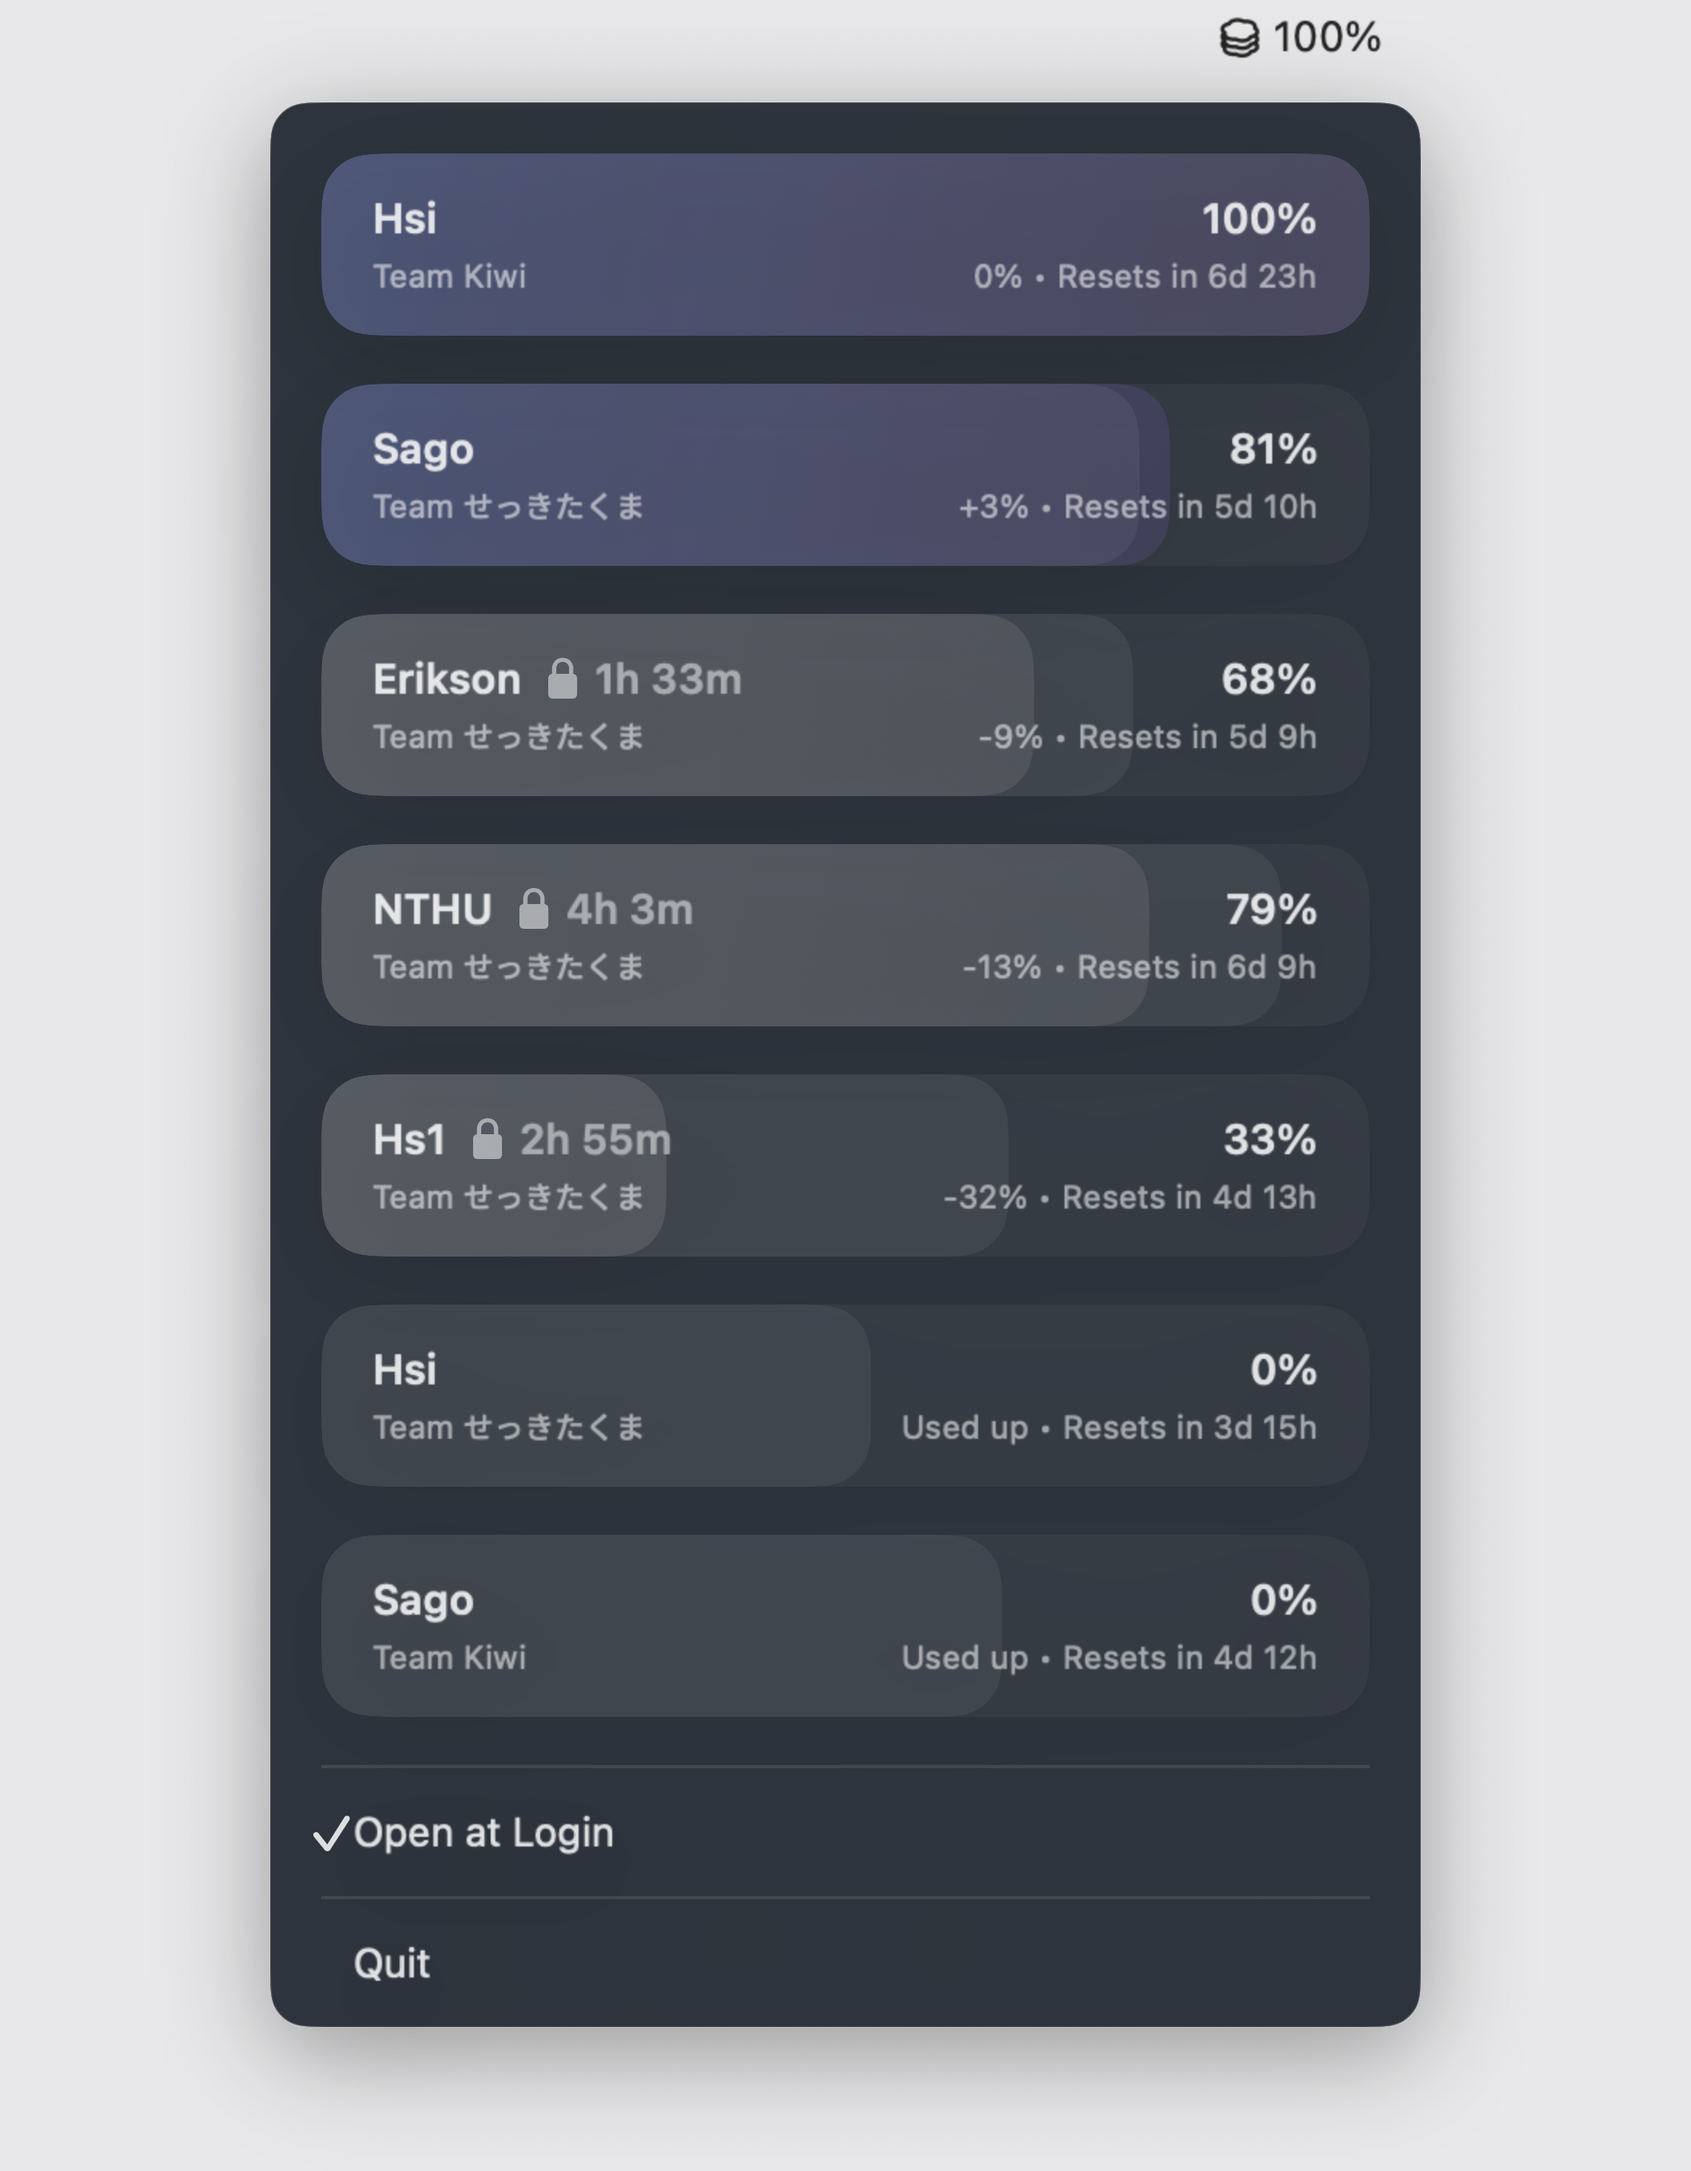
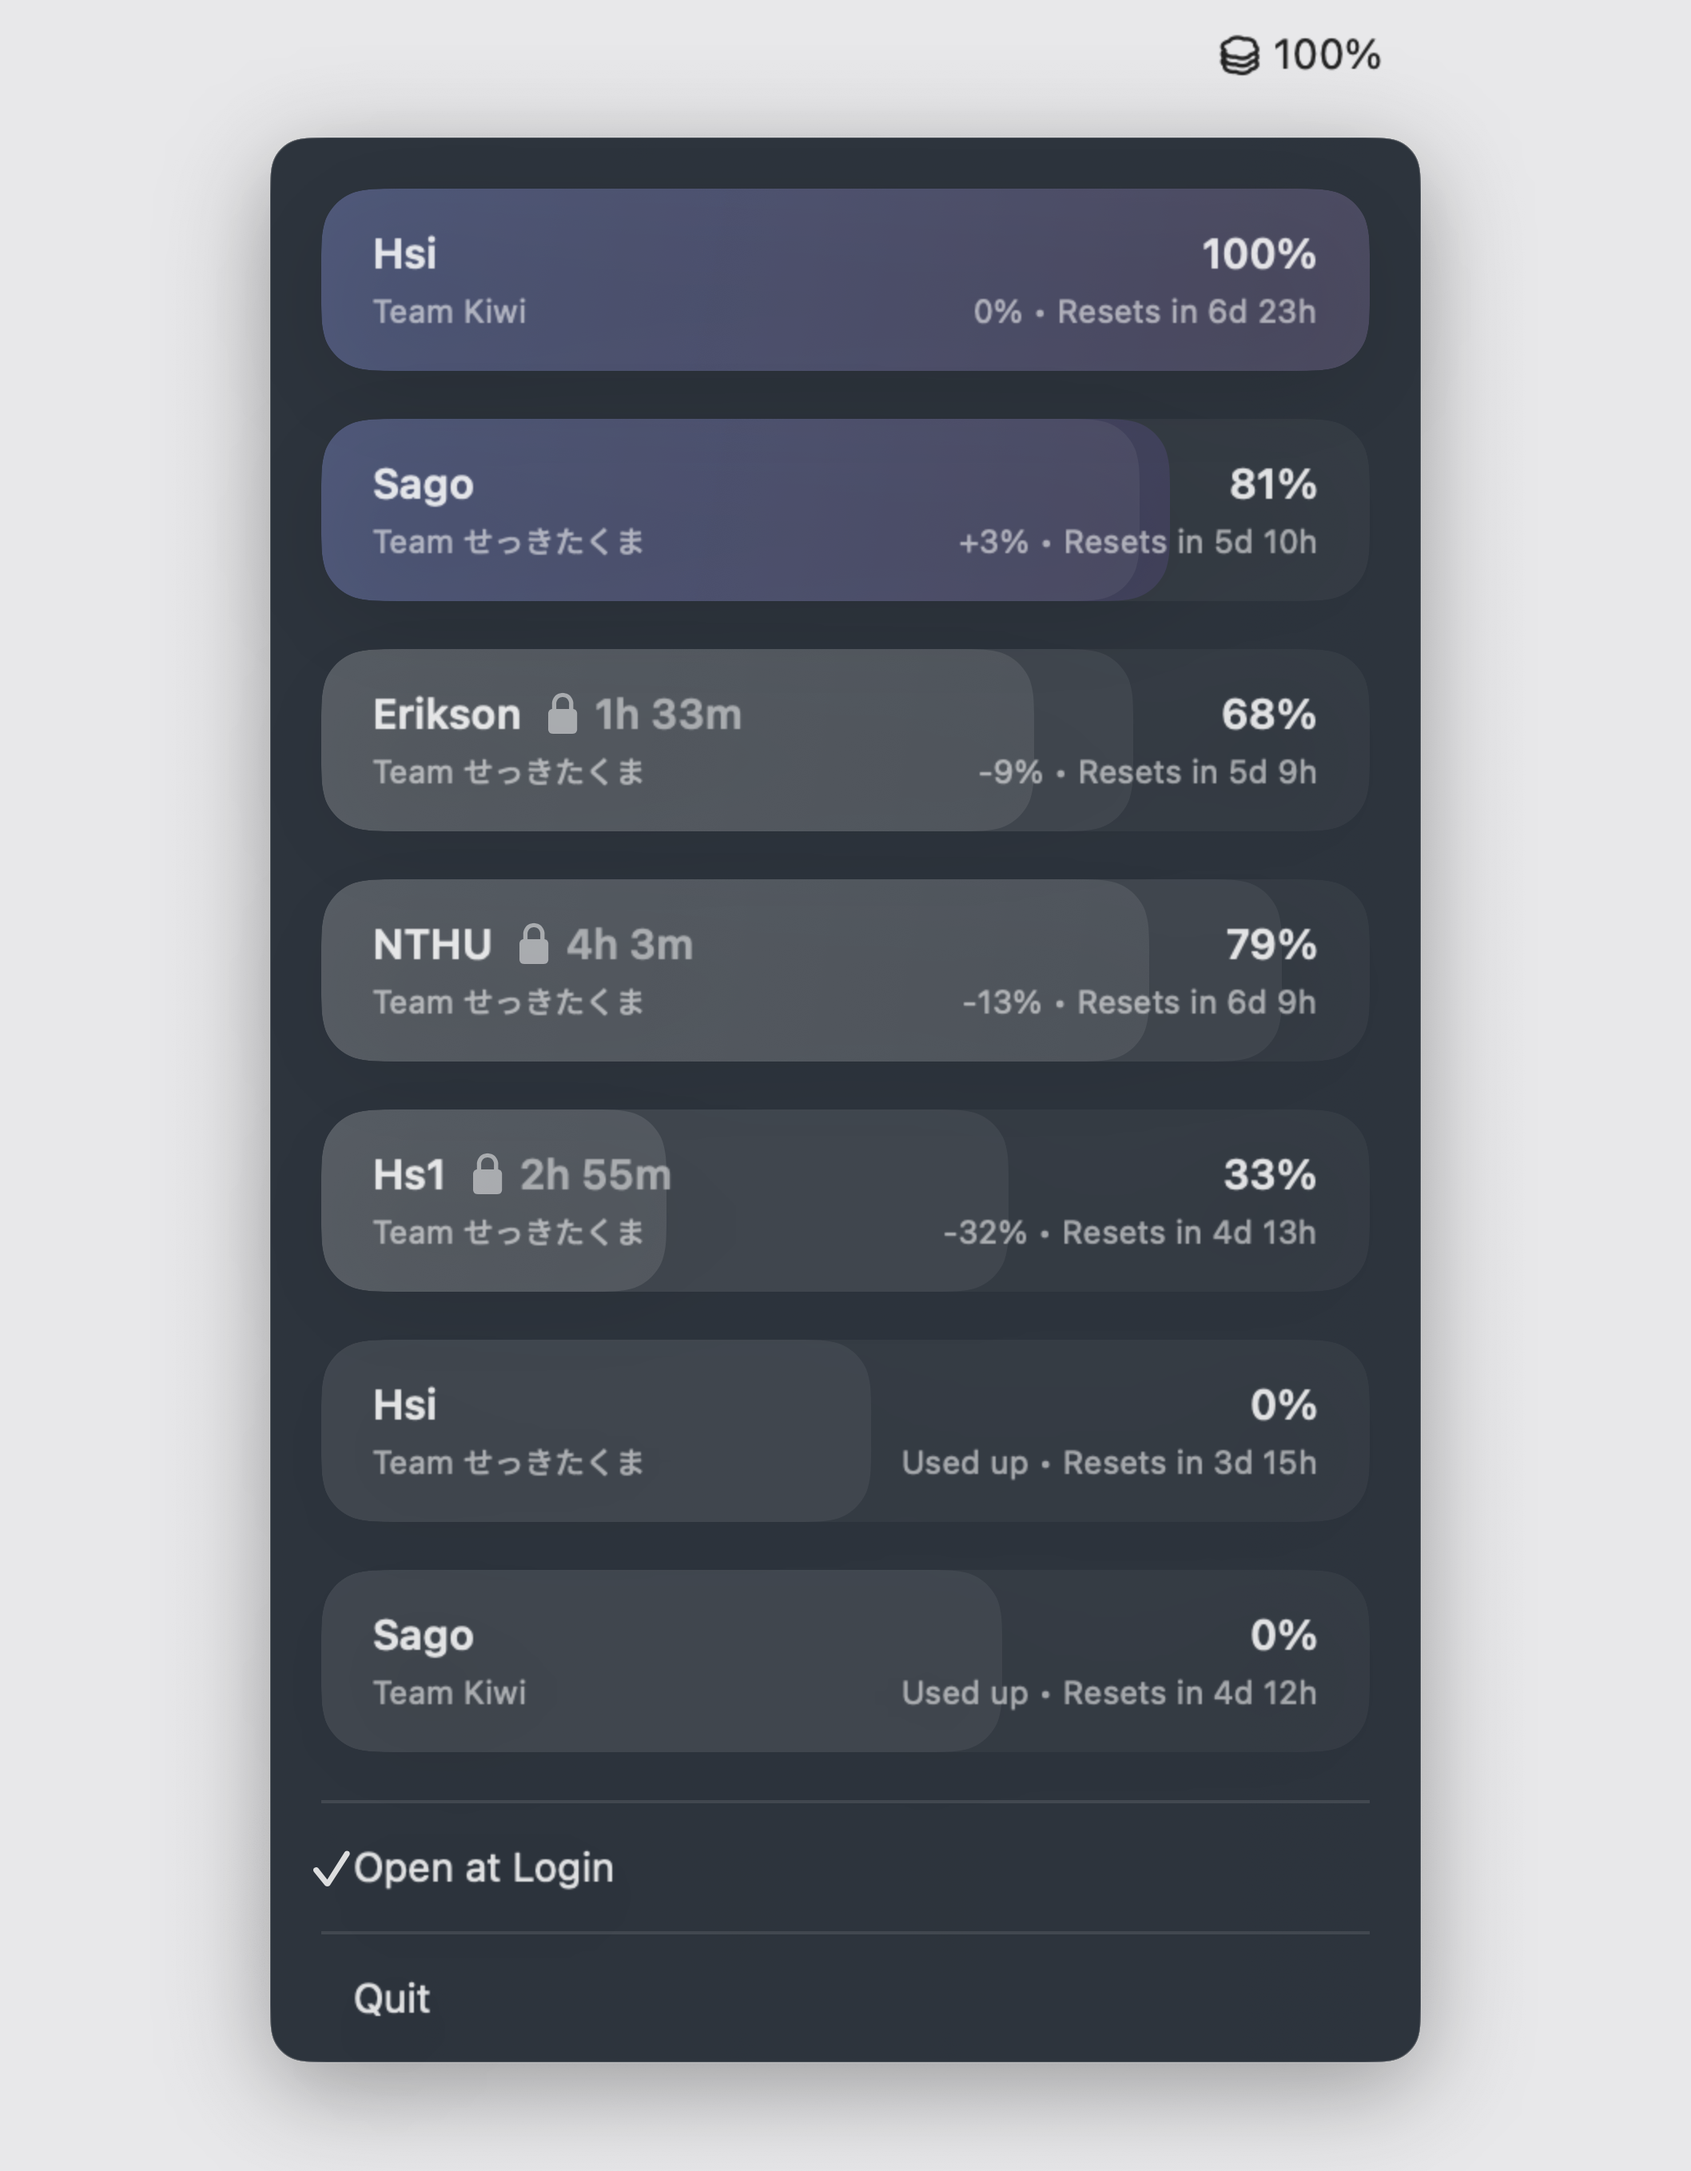
fix: match native menu bar mockup ratio

diff --git a/tools/DemoMockup.swift b/tools/DemoMockup.swift
@@ -7,7 +7,7 @@ private let windowSize = CGSize(
     width: canvasSize.width * windowRenderScale,
     height: canvasSize.height * windowRenderScale
 )
-private let menuBarHeight: CGFloat = 24
+private let menuBarHeight: CGFloat = 35
 private let panelWidth: CGFloat = 360
 private let panelHeight: CGFloat = 602
 private let panelLeading = (canvasSize.width - panelWidth) / 2
